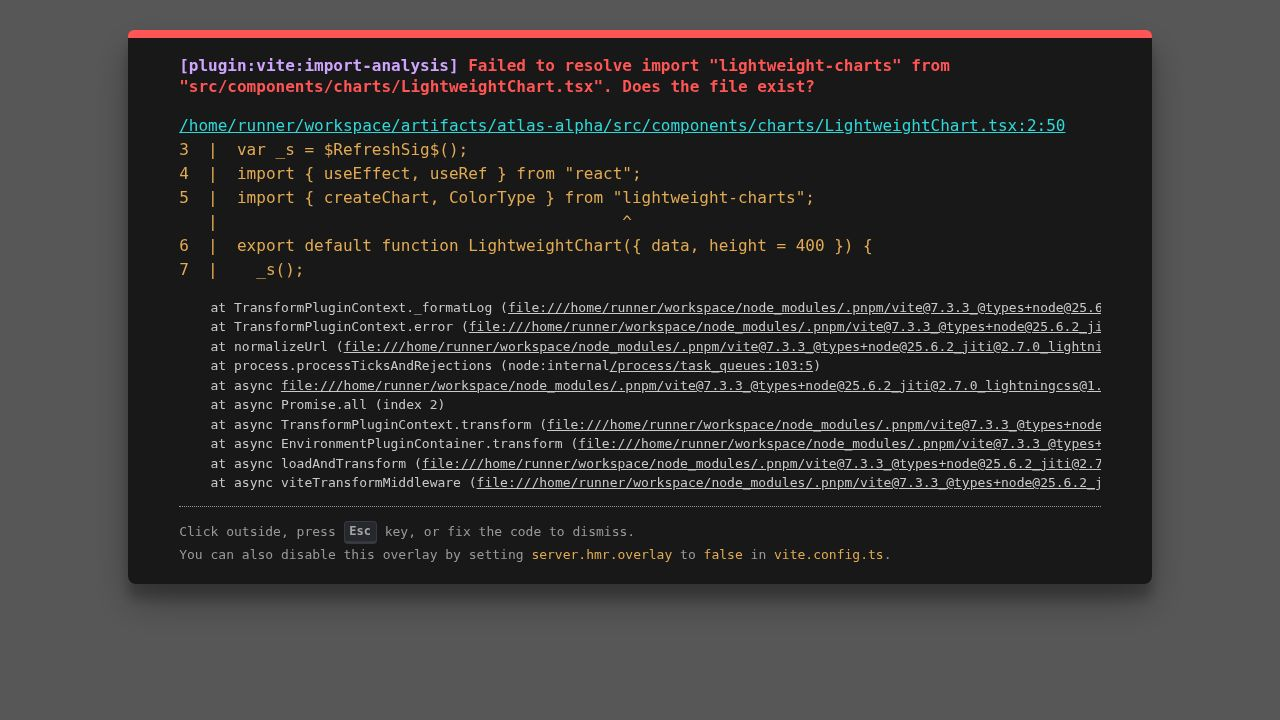
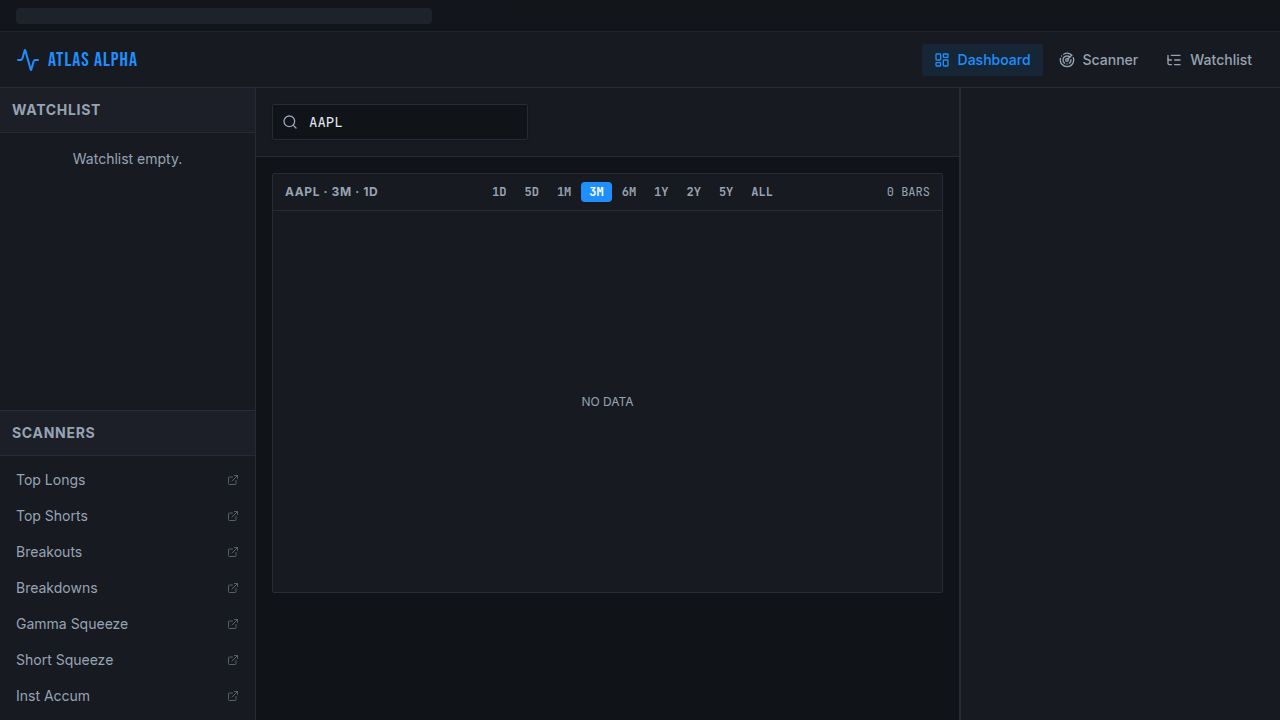
Improve dashboard ticker reactivity and scanner reliability
Implement a semaphore for concurrent Yahoo Finance calls, reduce scanner batch size, and update the dashboard to use wouter's useSearch hook for reactive ticker updates.

Replit-Commit-Author: Agent
Replit-Commit-Session-Id: d3c9561d-f006-479f-8424-df2f1f59bddd
Replit-Commit-Checkpoint-Type: full_checkpoint
Replit-Commit-Event-Id: d8a5027c-e188-4a6d-85b5-bf919c892f28
Replit-Commit-Screenshot-Url: https://storage.googleapis.com/screenshot-production-us-central1/aff0d65f-5b0c-475f-adcc-07df63d4bb2a/d3c9561d-f006-479f-8424-df2f1f59bddd/7VlkIfe
Replit-Helium-Checkpoint-Created: true

diff --git a/artifacts/atlas-alpha/src/components/layout/WatchlistSidebar.tsx b/artifacts/atlas-alpha/src/components/layout/WatchlistSidebar.tsx
@@ -1,26 +1,50 @@
 import React, { useState } from "react";
-import { useGetWatchlist, useRemoveFromWatchlist, getGetWatchlistQueryKey } from "@workspace/api-client-react";
+import { useGetWatchlist, useAddToWatchlist, useRemoveFromWatchlist, getGetWatchlistQueryKey } from "@workspace/api-client-react";
 import { useQueryClient } from "@tanstack/react-query";
 import { Link } from "wouter";
 import { formatCurrency, formatPercent, getColorForDirection } from "@/lib/formatters";
-import { X, ExternalLink } from "lucide-react";
-import { Button } from "@/components/ui/button";
+import { X, ExternalLink, Plus } from "lucide-react";
 
 export default function WatchlistSidebar() {
   const queryClient = useQueryClient();
+  const [addInput, setAddInput] = useState("");
+  const [addError, setAddError] = useState("");
+
   const { data: watchlist, isLoading } = useGetWatchlist({
     query: { queryKey: getGetWatchlistQueryKey() }
   });
+  const addMutation    = useAddToWatchlist();
   const removeMutation = useRemoveFromWatchlist();
+
+  const handleAdd = (e: React.FormEvent) => {
+    e.preventDefault();
+    e.stopPropagation();
+    const ticker = addInput.trim().toUpperCase();
+    if (!ticker) return;
+    setAddError("");
+    addMutation.mutate(
+      { data: { ticker } },
+      {
+        onSuccess: () => {
+          setAddInput("");
+          queryClient.invalidateQueries({ queryKey: getGetWatchlistQueryKey() });
+        },
+        onError: () => {
+          setAddError("Invalid ticker");
+        },
+      }
+    );
+  };
 
   const handleRemove = (ticker: string, e: React.MouseEvent) => {
     e.preventDefault();
+    e.stopPropagation();
     removeMutation.mutate(
       { ticker },
       {
         onSuccess: () => {
           queryClient.invalidateQueries({ queryKey: getGetWatchlistQueryKey() });
-        }
+        },
       }
     );
   };
@@ -30,21 +54,43 @@ export default function WatchlistSidebar() {
       <div className="p-3 border-b border-border bg-muted/30">
         <h2 className="text-sm font-bold tracking-wider text-muted-foreground">WATCHLIST</h2>
       </div>
-      
+
+      {/* Add ticker input */}
+      <form onSubmit={handleAdd} className="p-2 border-b border-border flex gap-1">
+        <input
+          type="text"
+          value={addInput}
+          onChange={e => { setAddInput(e.target.value.toUpperCase()); setAddError(""); }}
+          placeholder="Add ticker…"
+          maxLength={10}
+          className="flex-1 min-w-0 bg-background border border-border rounded px-2 py-1 text-xs font-mono uppercase placeholder:text-muted-foreground/50 focus:outline-none focus:ring-1 focus:ring-primary"
+        />
+        <button
+          type="submit"
+          disabled={!addInput.trim() || addMutation.isPending}
+          className="shrink-0 w-6 h-6 flex items-center justify-center rounded bg-primary/10 hover:bg-primary/20 text-primary disabled:opacity-40 transition-colors"
+          title="Add to watchlist"
+        >
+          <Plus className="w-3 h-3" />
+        </button>
+      </form>
+      {addError && (
+        <div className="px-2 py-1 text-[10px] text-destructive font-mono">{addError}</div>
+      )}
+
+      {/* Watchlist items */}
       <div className="flex-1 overflow-y-auto">
         {isLoading ? (
           <div className="p-4 space-y-4">
             {[1, 2, 3, 4].map(i => (
               <div key={i} className="animate-pulse flex justify-between">
-                <div className="h-4 w-12 bg-muted rounded"></div>
-                <div className="h-4 w-16 bg-muted rounded"></div>
+                <div className="h-4 w-12 bg-muted rounded" />
+                <div className="h-4 w-16 bg-muted rounded" />
               </div>
             ))}
           </div>
         ) : !watchlist?.length ? (
-          <div className="p-4 text-sm text-muted-foreground text-center">
-            Watchlist empty.
-          </div>
+          <div className="p-4 text-sm text-muted-foreground text-center">Watchlist empty.</div>
         ) : (
           <div className="divide-y divide-border">
             {watchlist.map(item => (
@@ -53,7 +99,7 @@ export default function WatchlistSidebar() {
                   <span className="font-bold text-primary">{item.ticker}</span>
                   <div className="flex items-center gap-2">
                     <span className="font-mono text-sm">{formatCurrency(item.price)}</span>
-                    <button 
+                    <button
                       onClick={(e) => handleRemove(item.ticker, e)}
                       className="text-muted-foreground hover:text-destructive transition-colors"
                     >
@@ -66,7 +112,7 @@ export default function WatchlistSidebar() {
                     {formatPercent(item.changePercent)}
                   </span>
                   <div className="flex items-center gap-2">
-                    <span className={getColorForDirection(item.direction)}>{item.atlasScore?.toFixed(0) || '-'}</span>
+                    <span className={getColorForDirection(item.direction)}>{item.atlasScore?.toFixed(0) || "-"}</span>
                     <span className="text-muted-foreground">ATLAS</span>
                   </div>
                 </div>

diff --git a/artifacts/api-server/src/lib/marketData.ts b/artifacts/api-server/src/lib/marketData.ts
@@ -4,6 +4,34 @@ import { logger } from "./logger.js";
 
 const yahooFinance = new YahooFinanceClass({ suppressNotices: ["yahooSurvey"] });
 
+// ── Global concurrency limiter ────────────────────────────────────────────────
+// Caps total concurrent Yahoo Finance calls across warmup + scanner + individual
+// requests so we never saturate the external API or the proxy connection pool.
+class Semaphore {
+  private slots: number;
+  private queue: Array<() => void> = [];
+  constructor(slots: number) { this.slots = slots; }
+  acquire(): Promise<void> {
+    if (this.slots > 0) { this.slots--; return Promise.resolve(); }
+    return new Promise(resolve => this.queue.push(resolve));
+  }
+  release(): void {
+    const next = this.queue.shift();
+    if (next) { next(); } else { this.slots++; }
+  }
+}
+const yahooSem = new Semaphore(8); // max 8 concurrent Yahoo Finance calls
+
+/** Rate-limited, retrying wrapper for all Yahoo Finance calls. */
+async function yahooCall<T>(fn: () => Promise<T>): Promise<T> {
+  await yahooSem.acquire();
+  try {
+    return await withRetry(fn);
+  } finally {
+    yahooSem.release();
+  }
+}
+
 async function withRetry<T>(fn: () => Promise<T>, maxRetries = 3): Promise<T> {
   for (let attempt = 0; attempt < maxRetries; attempt++) {
     try {
@@ -58,8 +86,8 @@ export async function fetchQuote(ticker: string): Promise<YahooQuote> {
 
   // Fire quote + sector lookup in parallel — saves ~500ms vs sequential
   const [qResult, summaryResult] = await Promise.allSettled([
-    withRetry(() => yahooFinance.quote(ticker)),
-    withRetry(() => yahooFinance.quoteSummary(ticker, { modules: ["assetProfile"] })),
+    yahooCall(() => yahooFinance.quote(ticker)),
+    yahooCall(() => yahooFinance.quoteSummary(ticker, { modules: ["assetProfile"] })),
   ]);
 
   if (qResult.status === "rejected") throw qResult.reason;
@@ -152,7 +180,7 @@ export async function fetchOHLCV(ticker: string, period = "3mo", interval = "1d"
   type ValidInterval = typeof validIntervals[number];
   const mappedInterval: ValidInterval = (validIntervals.includes(interval as ValidInterval) ? interval : "1d") as ValidInterval;
 
-  const historical = await withRetry(() => yahooFinance.chart(ticker, {
+  const historical = await yahooCall(() => yahooFinance.chart(ticker, {
     period1: start,
     period2: end,
     interval: mappedInterval,

diff --git a/artifacts/atlas-alpha/src/pages/Dashboard.tsx b/artifacts/atlas-alpha/src/pages/Dashboard.tsx
@@ -1,4 +1,5 @@
-import React, { useState, useCallback, useEffect, useRef } from "react";
+import React, { useState, useCallback, useEffect, useRef, useMemo } from "react";
+import { useSearch } from "wouter";
 import { useQuery } from "@tanstack/react-query";
 import { 
   useGetStockAnalysis, 
@@ -379,11 +380,20 @@ function formatDateLabel(date: string): string {
 }
 
 export default function Dashboard() {
-  const searchParams = new URLSearchParams(window.location.search);
-  const initialTicker = searchParams.get("ticker") || "AAPL";
+  const search = useSearch();
+  const urlTicker = useMemo(
+    () => new URLSearchParams(search).get("ticker") || "AAPL",
+    [search]
+  );
 
-  const [ticker, setTicker] = useState(initialTicker);
-  const [searchInput, setSearchInput] = useState(initialTicker);
+  const [ticker, setTicker] = useState(urlTicker);
+  const [searchInput, setSearchInput] = useState(urlTicker);
+
+  // Sync ticker state whenever the URL param changes (e.g. watchlist item click)
+  useEffect(() => {
+    setTicker(urlTicker);
+    setSearchInput(urlTicker);
+  }, [urlTicker]);
   const [timeframe, setTimeframe] = useState<Timeframe>(DEFAULT_TF);
   const [selectedBar, setSelectedBar] = useState<{ date: string; close: number } | null>(null);
 

diff --git a/artifacts/api-server/src/routes/scanner.ts b/artifacts/api-server/src/routes/scanner.ts
@@ -28,7 +28,7 @@ async function runScanner(
 
   const universe = SCANNER_UNIVERSE;
   const analyses: AnalysisResult[] = [];
-  const batchSize = 20;
+  const batchSize = 10; // keep concurrent Yahoo Finance calls within rate-limit budget
 
   for (let i = 0; i < universe.length; i += batchSize) {
     const batch = universe.slice(i, i + batchSize);

diff --git a/.agents/memory/dashboard-url-reactivity.md b/.agents/memory/dashboard-url-reactivity.md
@@ -1,0 +1,17 @@
+---
+name: Dashboard URL reactivity
+description: How to make Dashboard ticker state react to wouter navigation (watchlist clicks, scanner links)
+---
+
+## Rule
+Read the ticker URL param via wouter's `useSearch()` hook (not `window.location.search`), derive it with `useMemo`, and sync it into local state with `useEffect`. This ensures clicking a watchlist item or any Link that sets `?ticker=X` updates the chart and score gauge.
+
+**Why:** `useState(new URLSearchParams(window.location.search).get("ticker"))` reads the URL once at mount. Subsequent wouter navigation changes the URL but React doesn't re-run `useState` initializers, so the chart stays stuck on the original ticker.
+
+**How to apply:**
+```typescript
+const search = useSearch();  // from "wouter"
+const urlTicker = useMemo(() => new URLSearchParams(search).get("ticker") || "AAPL", [search]);
+const [ticker, setTicker] = useState(urlTicker);
+useEffect(() => { setTicker(urlTicker); setSearchInput(urlTicker); }, [urlTicker]);
+```

diff --git a/.agents/memory/scanner-e2e-timeout.md b/.agents/memory/scanner-e2e-timeout.md
@@ -1,0 +1,11 @@
+---
+name: Scanner E2E Playwright timeout
+description: Cold scanner scan exceeds Playwright notebook budget; use curl for verification instead
+---
+
+## Rule
+The Scanner page's first (cold cache) load takes 30–45 seconds while it analyzes 373 tickers. Playwright's notebook environment times out waiting for the table to appear. Verify the scanner works by hitting the API directly with curl instead of relying on a browser E2E test for the initial load.
+
+**Why:** Playwright has a finite step budget; waiting 45s for a spinner blocks all subsequent test steps. The scanner is otherwise fully functional — E2E tests that only check cached results (after a warmup) would work fine.
+
+**How to apply:** `curl -s --max-time 55 "http://localhost:80/api/scanner/top-longs?limit=5"` confirms scanner results. If you need a browser E2E test, load the scanner page first via API to warm the cache, then run the UI test against the cached result.

diff --git a/.agents/memory/yahoo-concurrency.md b/.agents/memory/yahoo-concurrency.md
@@ -1,0 +1,11 @@
+---
+name: Yahoo Finance concurrency
+description: Semaphore pattern to prevent rate-limit 502s when warmup and scanner run concurrently
+---
+
+## Rule
+All Yahoo Finance calls (quote, quoteSummary, chart) must go through a global 8-slot `Semaphore` defined in `marketData.ts`. Use the `yahooCall()` wrapper instead of `withRetry()` directly.
+
+**Why:** Startup warmup (batches of 5) + scanner (batches of 10) + individual analysis requests all hit Yahoo Finance simultaneously. Without a cap, 20–30 concurrent calls trigger Yahoo's rate limiter, and the proxy times out with 502s. Scanner shows "NO RESULTS FOUND" as a result.
+
+**How to apply:** Any new Yahoo Finance call in `marketData.ts` must use `yahooCall(() => yahooFinance.someMethod(...))`. Scanner batch size capped at 10. Warmup batch size stays at 5.

diff --git a/.agents/memory/MEMORY.md b/.agents/memory/MEMORY.md
@@ -1,0 +1,3 @@
+- [Yahoo Finance concurrency](yahoo-concurrency.md) — must cap concurrent Yahoo Finance calls with a semaphore; warmup + scanner together cause 502s without it
+- [Dashboard URL reactivity](dashboard-url-reactivity.md) — use wouter useSearch() + useEffect to sync ticker; window.location.search only reads once at mount
+- [Scanner Playwright timeout](scanner-e2e-timeout.md) — cold scanner scan takes 30-45s; Playwright notebook times out; verify scanner via curl instead